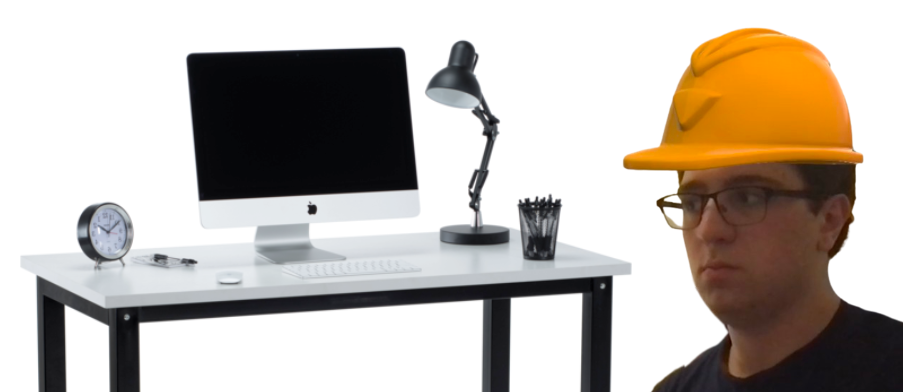
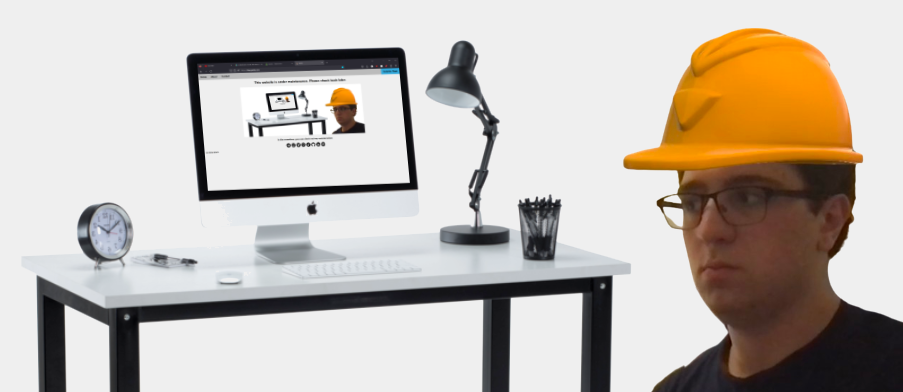
Added a funny

Changed region(s): [[0.2171, 0.1224, 0.4651, 0.4898]]

diff --git a/index.html b/index.html
@@ -2,7 +2,7 @@
 <html>
     <head>
         <title> Home </title>
-        <link rel="icon" type="image/x-icon" href="favicon.png">
+        <link rel="icon" type="image/x-icon" href="img/favicon.ico">
 
         <link rel="preconnect" href="https://fonts.googleapis.com">
         <link rel="preconnect" href="https://fonts.gstatic.com" crossorigin>
@@ -11,7 +11,7 @@
 
         <script src="https://kit.fontawesome.com/944eb371a4.js" crossorigin="anonymous"></script>
         <script src="https://cdnjs.cloudflare.com/ajax/libs/animejs/3.2.1/anime.min.js"></script>
-        <!-- <script src="script.js"></script> -->
+        <script src="script.js"></script>
     </head>
 
     <style>
@@ -35,6 +35,10 @@
             background-color: #efefef;
             margin: auto;
             font-family: "Helvetica Neue", Helvetica, Arial, sans-serif;
+        }
+
+        p {
+            margin: 10px;
         }
 
         ul {
